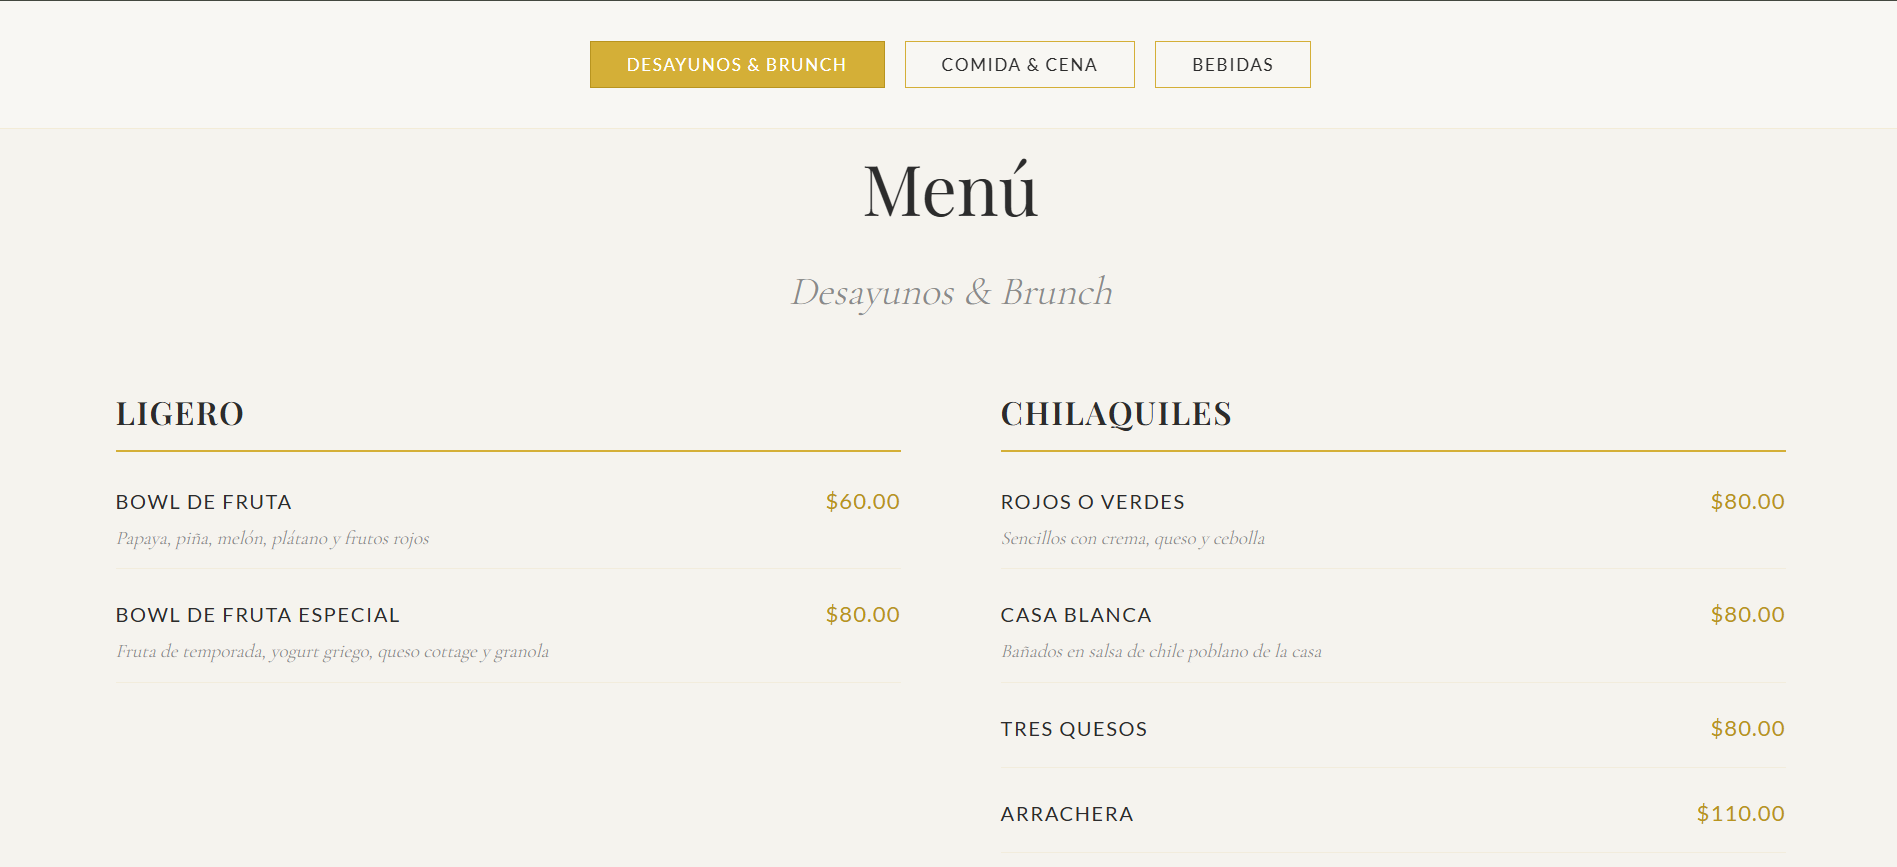
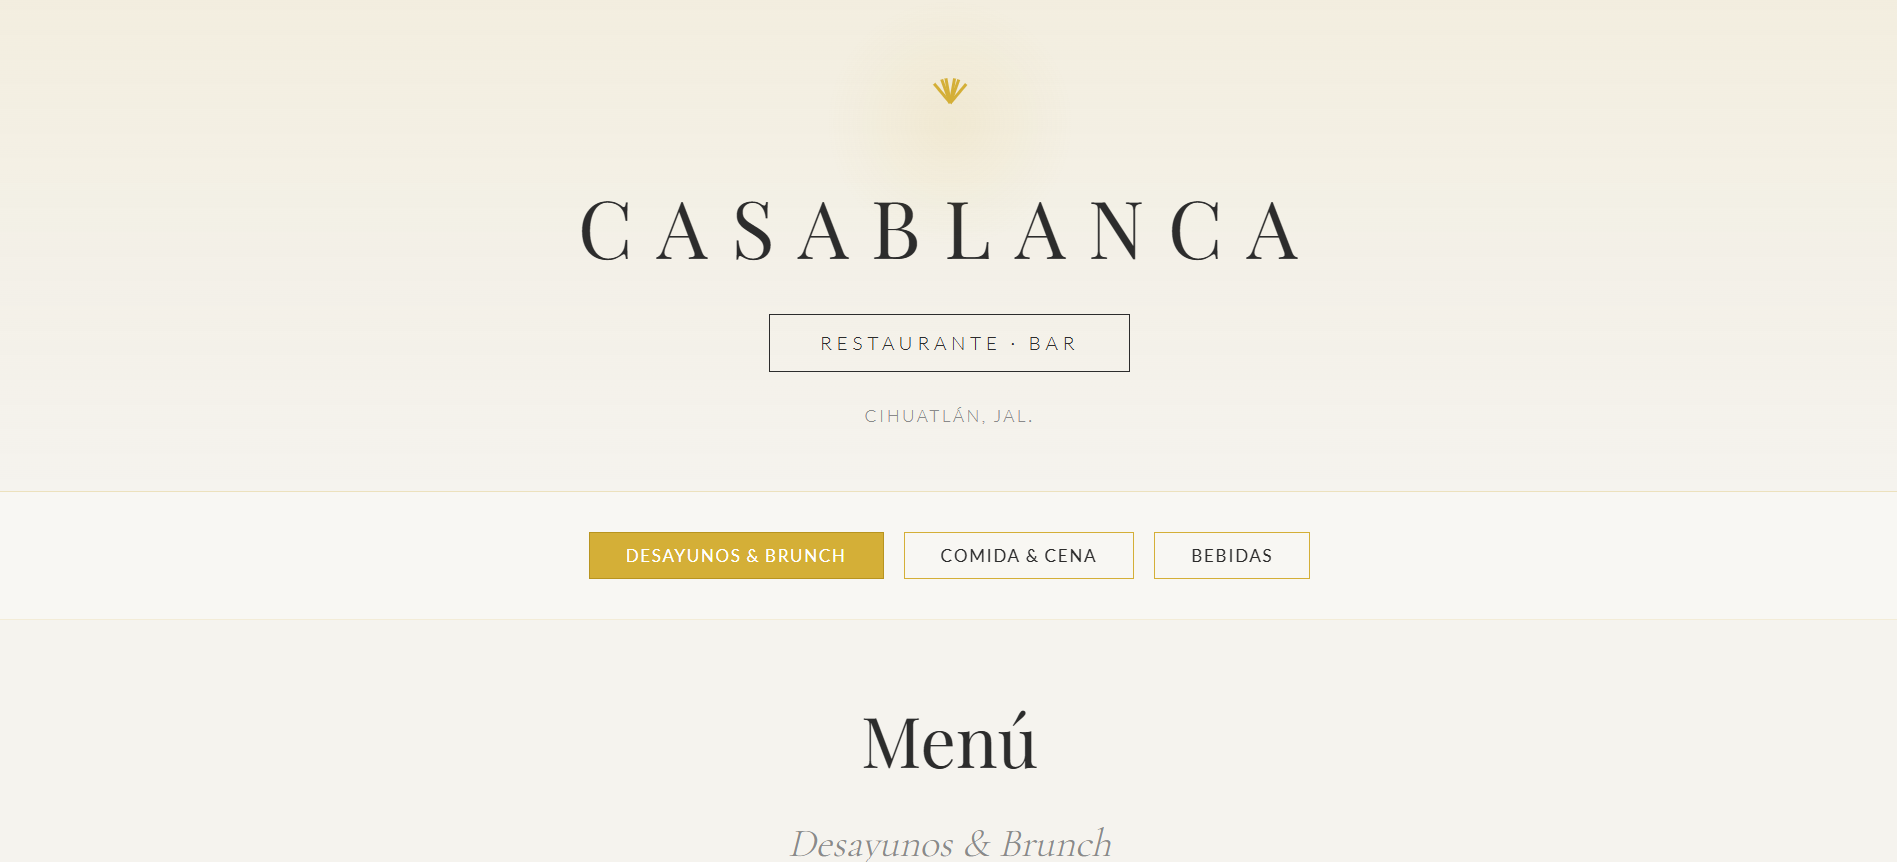
feat: Update screenshots and simplify preloader
- Replaced project screenshots with hero sections
- GM Fire: Specialists in Fire Suppression
- DC Beauty: Tu largo, tu diseño, tu precio
- Casa Blanca: CASABLANCA hero
- VitalErect: Recupera tu Confianza
- Removed ugly DS circle from preloader
- Logo now displays square with rounded corners
- Cleaner, more minimal preloader design

diff --git a/css/styles.css b/css/styles.css
@@ -249,39 +249,31 @@ h3 { font-size: clamp(1.25rem, 2vw, 1.5rem); }
     display: flex;
     flex-direction: column;
     align-items: center;
-    gap: var(--spacing-md);
+    gap: var(--spacing-lg);
 }
 
 .preloader-logo-img {
-    width: 48px;
-    height: 48px;
-    border-radius: var(--radius-md);
+    width: 56px;
+    height: 56px;
+    border-radius: var(--radius-lg);
     object-fit: cover;
-    animation: preloaderFloat 3s ease-in-out infinite;
+    border: 2px solid var(--color-primary);
+    animation: preloaderPulse 2s ease-in-out infinite;
 }
 
-@keyframes preloaderFloat {
+@keyframes preloaderPulse {
     0%, 100% {
-        transform: translateY(0);
+        transform: scale(1);
+        border-color: var(--color-primary);
     }
     50% {
-        transform: translateY(-8px);
+        transform: scale(1.03);
+        border-color: var(--color-primary-light);
     }
-}
-
-.preloader-text {
-    overflow: hidden;
-}
-
-.preloader-brand {
-    font-size: 1rem;
-    font-weight: 600;
-    color: var(--color-text);
-    letter-spacing: 0.05em;
 }
 
 .preloader-bar {
-    width: 120px;
+    width: 100px;
     height: 2px;
     background: var(--color-surface);
     border-radius: var(--radius-full);
@@ -293,19 +285,13 @@ h3 { font-size: clamp(1.25rem, 2vw, 1.5rem); }
     height: 100%;
     background: var(--gradient-primary);
     transform-origin: left;
-    animation: preloaderProgress 1.5s ease-in-out infinite;
+    animation: preloaderProgress 1.2s ease-in-out infinite;
 }
 
 @keyframes preloaderProgress {
-    0% {
-        transform: translateX(-100%);
-    }
-    50% {
-        transform: translateX(0);
-    }
-    100% {
-        transform: translateX(100%);
-    }
+    0% { transform: translateX(-100%); }
+    50% { transform: translateX(0); }
+    100% { transform: translateX(100%); }
 }
 
 /* ---------- Header ---------- */

diff --git a/index.html b/index.html
@@ -60,9 +60,6 @@
             <div class="preloader-logo">
                 <img src="img/logo.jpg" alt="D.Softworks" class="preloader-logo-img">
             </div>
-            <div class="preloader-text">
-                <span class="preloader-brand">D.Softworks</span>
-            </div>
             <div class="preloader-bar">
                 <div class="preloader-bar-fill"></div>
             </div>
